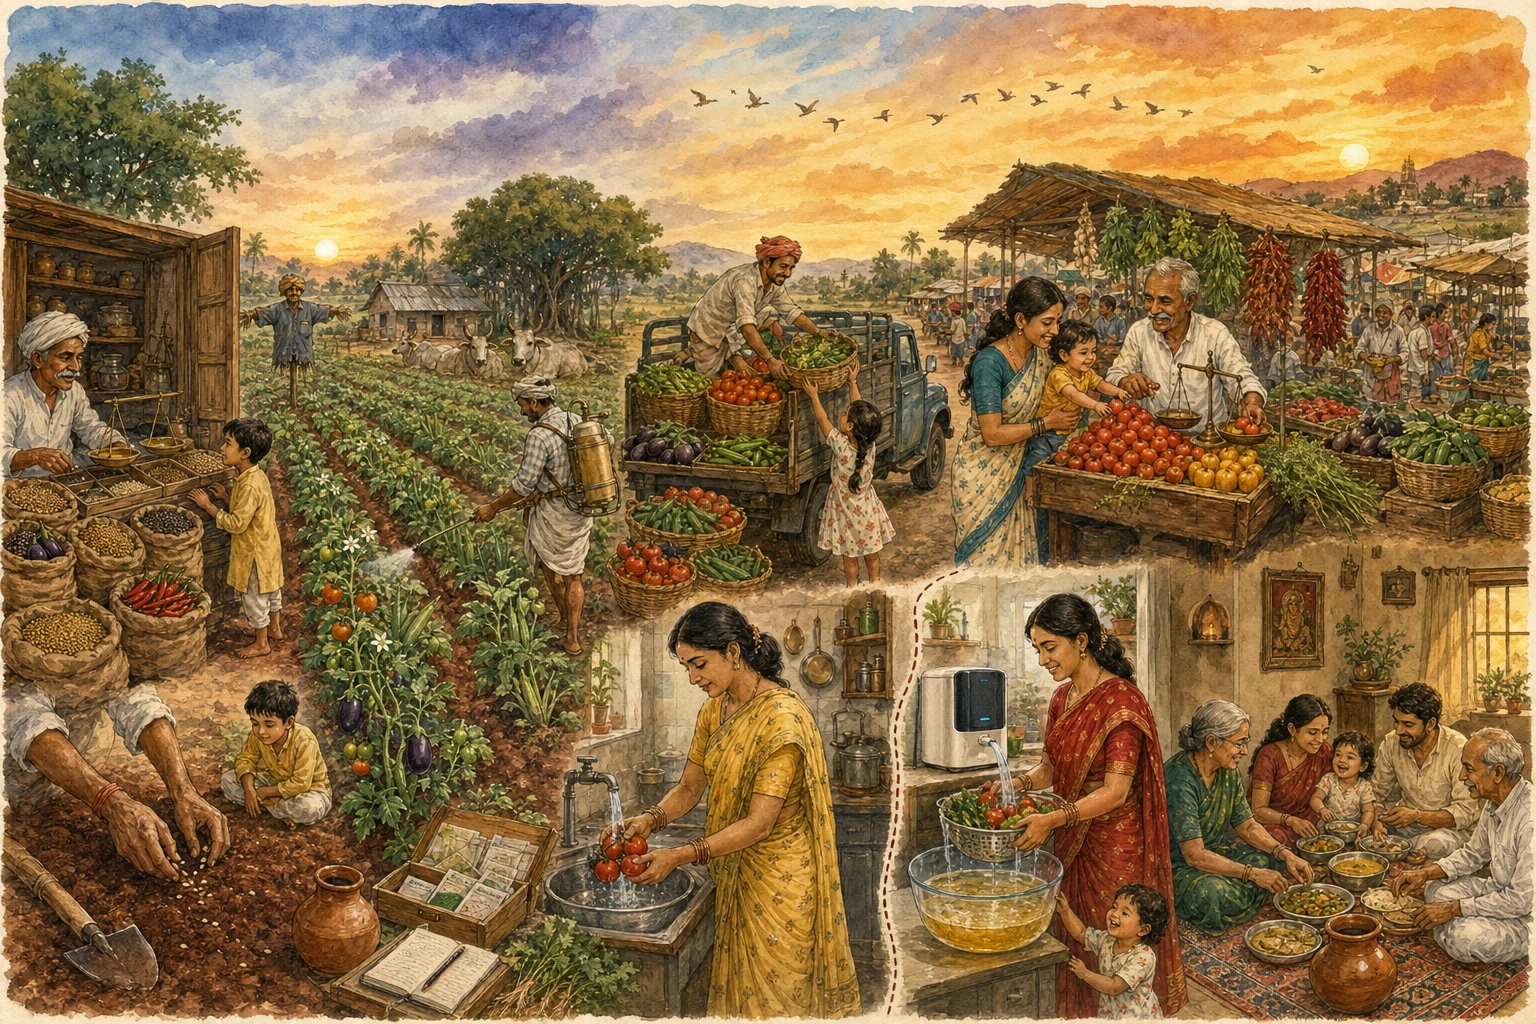
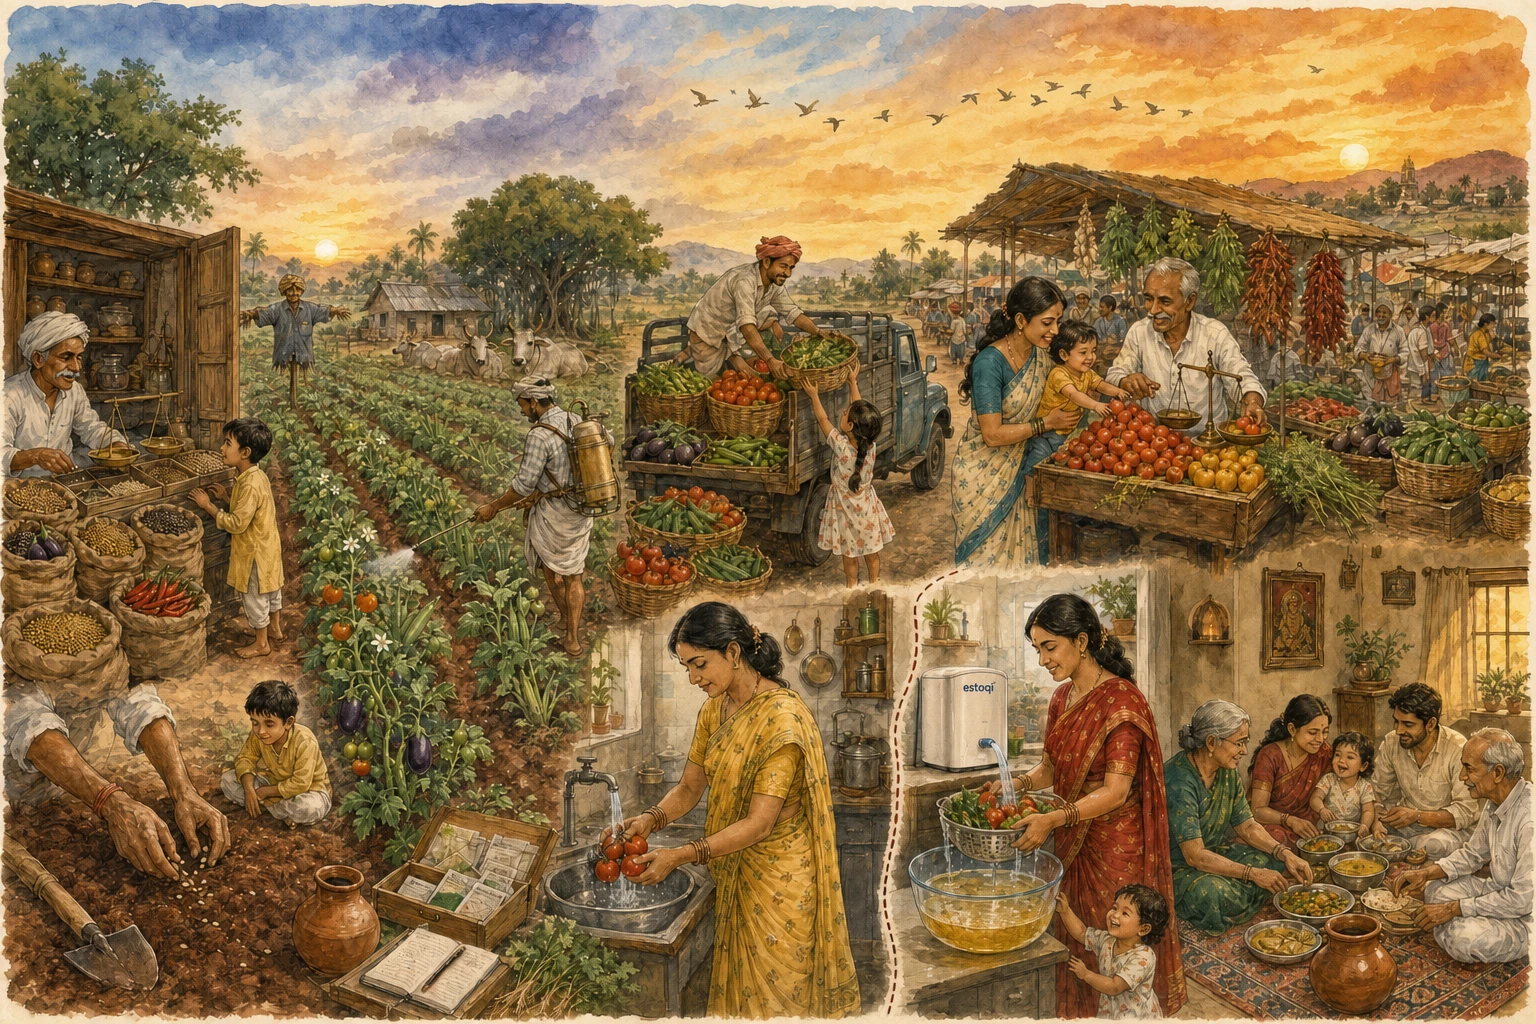
journey: paint estoqi wordmark on the appliance in the hero panorama
The countertop ioniser in the 'with Estoqi' kitchen had no visible brand
mark — the founder asked for one so the wash machine that does the work
also says who it is.

Image-edited the existing journey_hero.webp via gpt-image-2's edits
endpoint with a tightly scoped prompt: leave the entire panorama intact;
add a small lowercase "estoqi" in deep navy on the front face of the
white countertop appliance in the right-hand kitchen scene, painted in
the same watercolour + ink hand as the rest of the frame. The original
unbranded hero is preserved at .assets/journey_hero_pre_brand_*.webp
in case we want to A/B it later.

diff --git a/scripts/gen_journey_hero_branded.py b/scripts/gen_journey_hero_branded.py
@@ -1,0 +1,76 @@
+#!/usr/bin/env python3
+"""Refine /our-journey hero: add the painted word 'estoqi' to the front of
+the countertop ioniser in the 'with Estoqi' kitchen. Uses the existing
+journey_hero.webp as the edit base so the rest of the panoramic painting
+is preserved as-is. If the model regenerates the whole frame, fall back
+to gen_journey_hero.py with the branding baked into the prompt."""
+import json
+import os
+import shutil
+import sys
+from datetime import datetime, timezone
+
+sys.path.insert(0, os.path.dirname(os.path.abspath(__file__)))
+from _lib_openai_image import edit
+
+ROOT = os.path.abspath(os.path.join(os.path.dirname(__file__), ".."))
+SRC = os.path.join(ROOT, "src/frontend/public/concepts/journey/journey_hero.webp")
+OUT = os.path.join(ROOT, "src/frontend/public/concepts/journey/journey_hero.webp")
+BACKUP_DIR = os.path.join(ROOT, ".assets")
+
+PROMPT = (
+    "Take the input painting and modify ONLY one detail. Leave every other "
+    "element, every figure, every colour, the sky, the fields, the seed "
+    "shop, the harvest, the sabzi mandi, the family meal — all of it — "
+    "exactly as it is in the input.\n\n"
+    "Look at the right-hand side of the painting where there are two "
+    "adjacent kitchen scenes separated by a faint hand-painted dotted "
+    "line. In the 'with Estoqi' kitchen (the one on the right where the "
+    "woman in the deep red saree stands at the counter, with the small "
+    "white countertop water-dispensing appliance and a clear glass basin "
+    "below the colander catching visibly amber-yellow runoff): on the "
+    "front face of that countertop appliance, paint the word \"estoqi\" "
+    "in small, clean, lowercase letters. The lettering should be:\n"
+    "  - Painted in the same watercolour + ink hand as the rest of the "
+    "    painting, with the same slightly trembling ink linework.\n"
+    "  - In a deep navy blue colour that matches the painting's existing "
+    "    indigo palette.\n"
+    "  - Small and restrained — like a real brand name on a small "
+    "    countertop appliance, not a billboard. Roughly the height of "
+    "    one of the smaller produce items in the scene.\n"
+    "  - Centred horizontally on the appliance face, sitting just below "
+    "    the top edge.\n"
+    "  - All lowercase. The letters are e, s, t, o, q, i. Six letters. "
+    "    Spelled E-S-T-O-Q-I.\n\n"
+    "No other text appears anywhere else in the painting. No labels, no "
+    "captions, no signatures, no watermarks. Only the painted lowercase "
+    "word 'estoqi' on the front of that one small countertop appliance."
+)
+
+
+def backup_existing():
+    if not os.path.exists(SRC):
+        return None
+    os.makedirs(BACKUP_DIR, exist_ok=True)
+    stamp = datetime.now(timezone.utc).strftime("%Y%m%dT%H%M%SZ")
+    dst = os.path.join(BACKUP_DIR, f"journey_hero_pre_brand_{stamp}.webp")
+    shutil.copy2(SRC, dst)
+    return dst
+
+
+def main():
+    backup = backup_existing()
+    result = edit(
+        SRC,
+        PROMPT,
+        size="1536x1024",
+        quality="high",
+        out_path=OUT,
+    )
+    if backup:
+        result["backup"] = backup
+    print(json.dumps(result))
+
+
+if __name__ == "__main__":
+    main()
